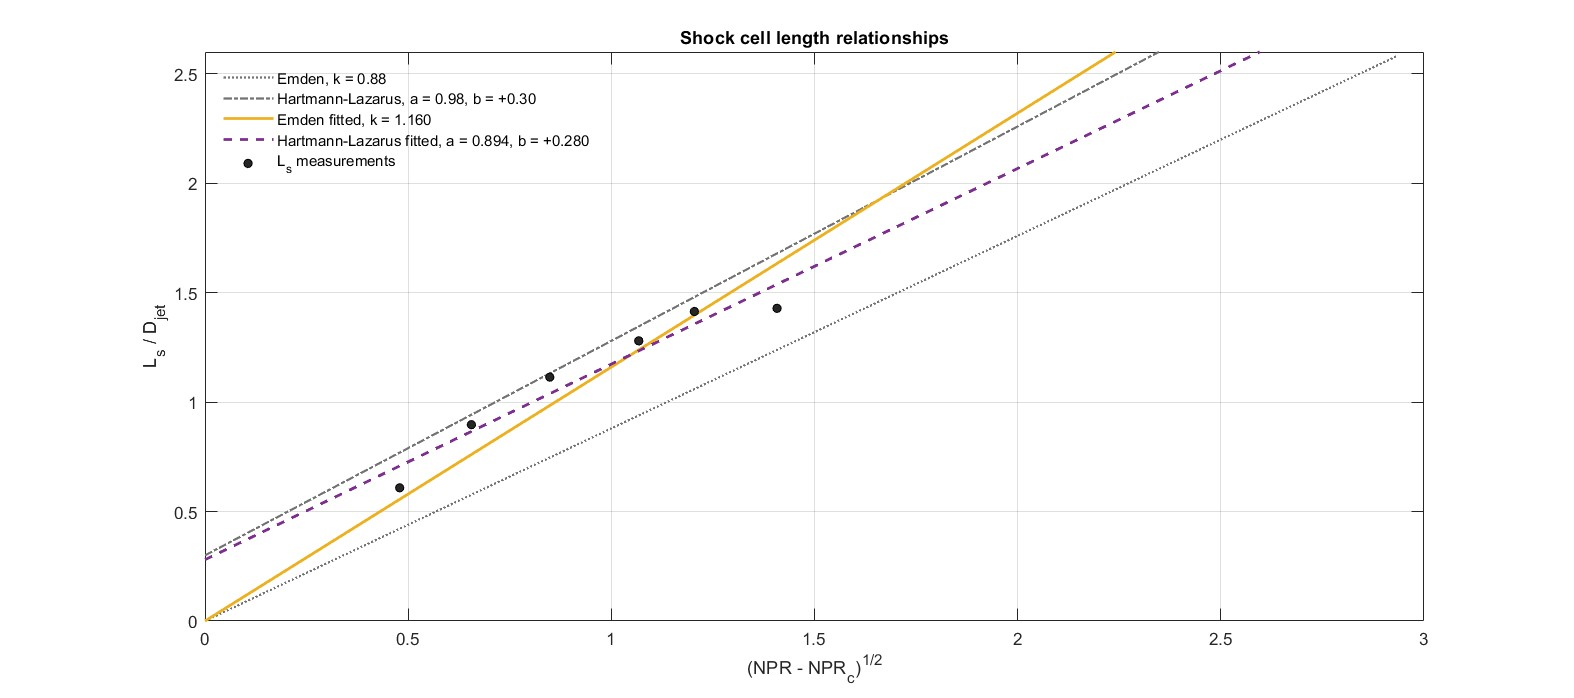
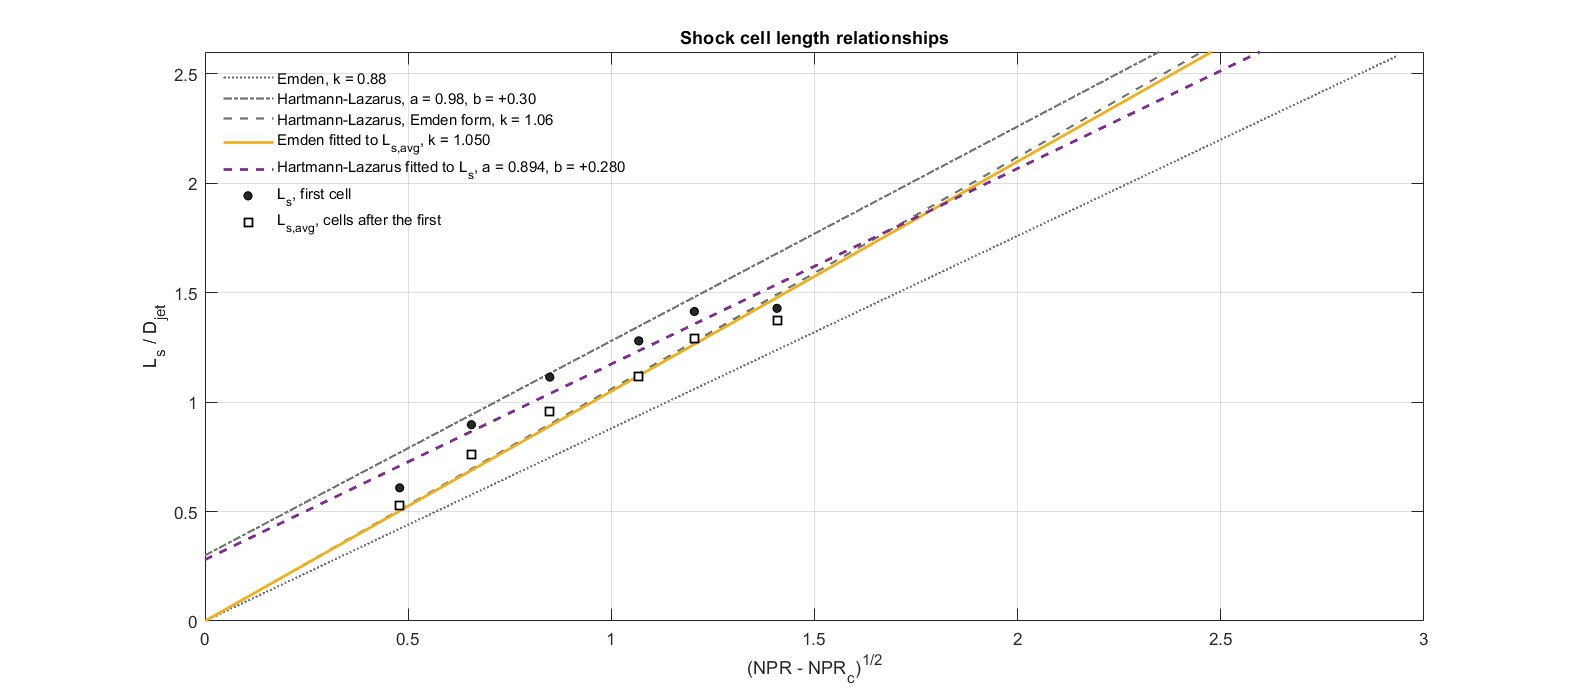
updated shock cell relationships

diff --git a/mainmatter/06_results.tex b/mainmatter/06_results.tex
@@ -521,7 +521,7 @@ The 6 plots in Figure \ref{fig: centerline density gradients} allow the identifi
 \begin{figure}[htbp]
     \centering
     \includegraphics[width=\textwidth]{figures/shock cell lengths.jpg}
-    \caption{First shock cell length $L_s$ of datasets a to f, normalized by the jet diameter, against $\sqrt{NPR - NPR_c}$. The measurements are displayed together with the formulations of Emden ($k = 0.88$) and Hartmann-Lazarus ($a = 0.98$, $b = 0.30$) and with the curves of both formats fitted to the data}
+    \caption{First shock cell length $L_s$ and average length of the following shock cells $L_{s,avg}$ of datasets a to f, normalized by the jet diameter, against $\sqrt{NPR - NPR_c}$. The measurements are displayed together with the formulations of Emden ($k = 0.88$) and Hartmann-Lazarus for the first cell ($a = 0.98$, $b = 0.30$) and for the following cells ($k = 1.06$), with the Emden format fitted to $L_{s,avg}$ and the Hartmann-Lazarus format fitted to $L_s$}
     \label{fig: shock cell lengths}
 \end{figure}
 
